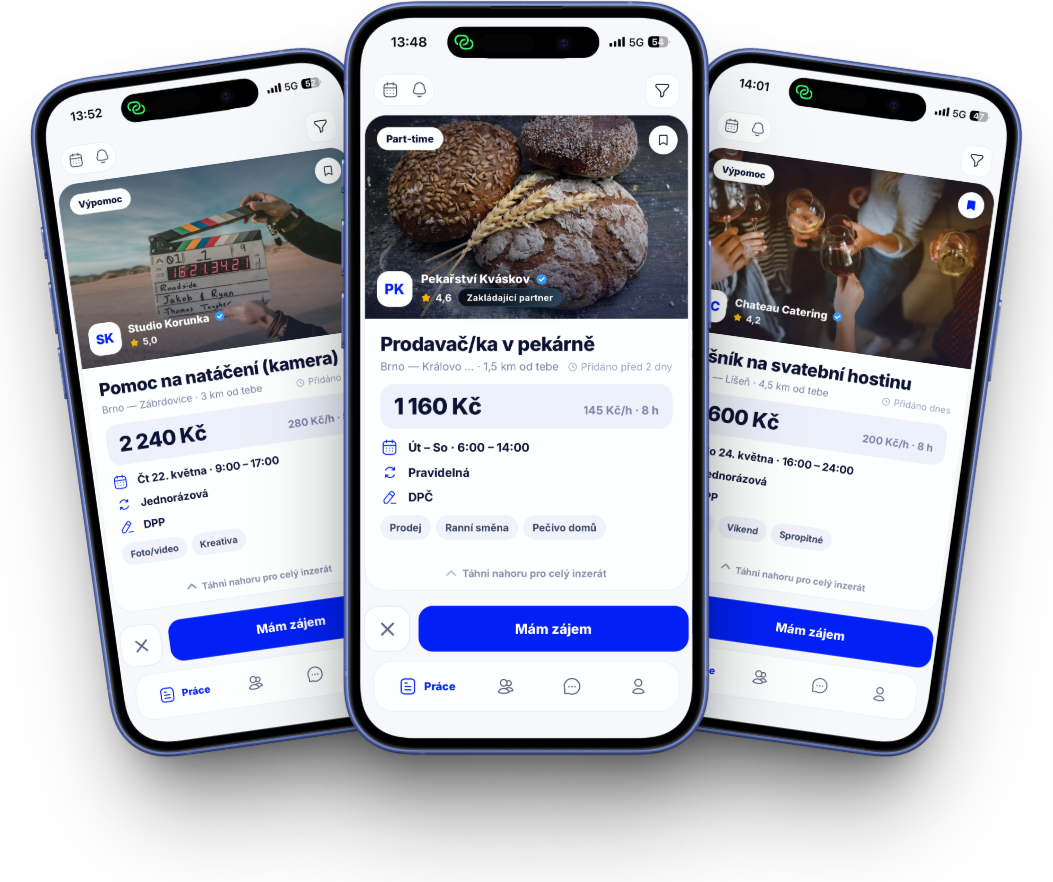
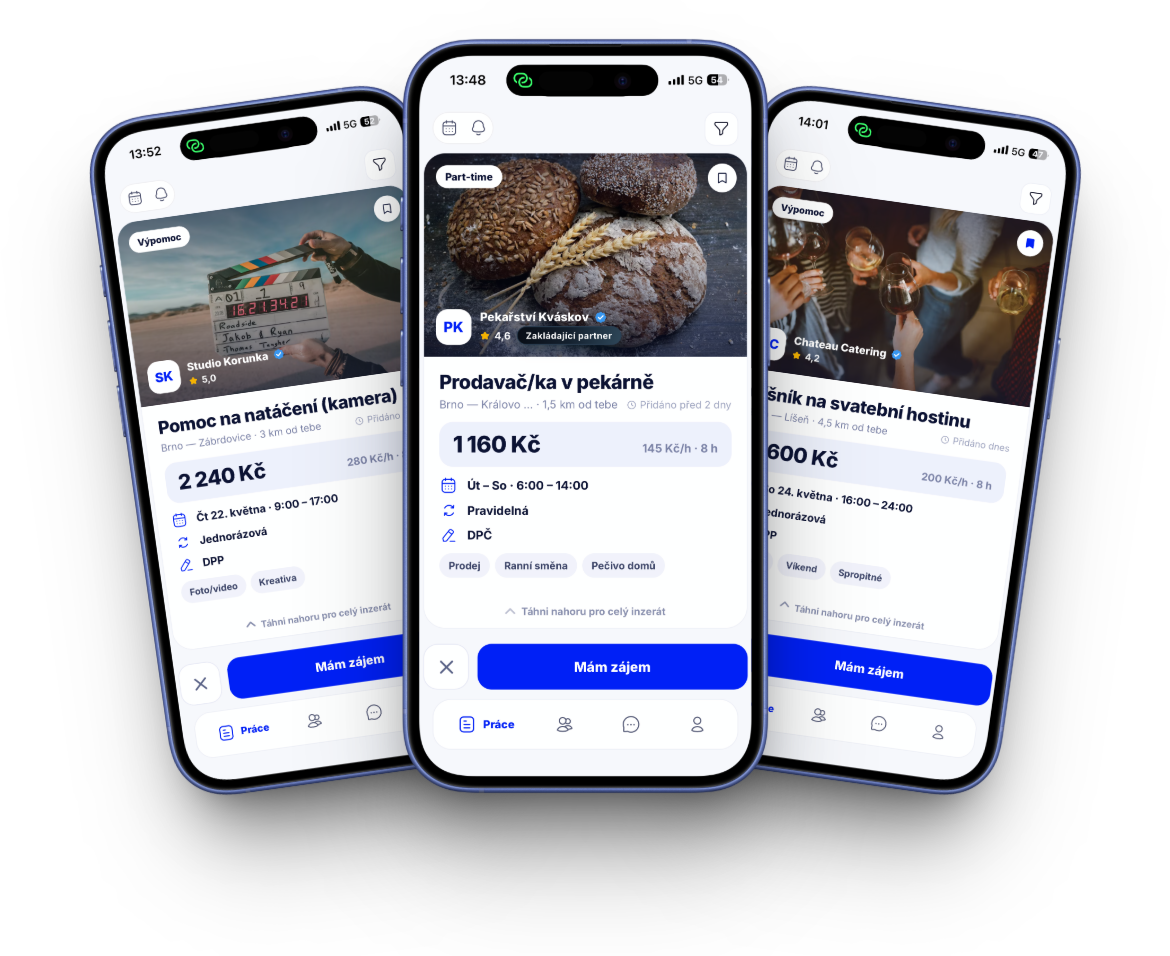
Fix: šedý obdélník u tří telefonů byl uříznutý stín, ne CSS
Předchozí commit odebral drop-shadow, ale skutečná příčina byla v ořezu obrázku.
Ořezával jsem podle bboxu při alfa > 8, jenže stín mockupu v tom místě ještě
nedoběhl do nuly — na spodní hraně měl alfu 8–11, vlevo 2–4. Ořez tam tedy udělal
tvrdý schod z ~10 na 0, což je na světlém pozadí ~4% skok jasu přes celou šířku,
a to se čte jako obdélník kolem obrázku.

Nový ořez bere celý rozsah nenulové alfy (1170x956 místo 1053x882). Spodek je
uříznutý už ve zdrojovém souboru na hraně plátna, takže je navíc přidané změkčení
okrajů (44px rampa) — stín teď nikde nekončí skokem.

diff --git a/hledam-si-praci.html b/hledam-si-praci.html
@@ -359,7 +359,7 @@
       <!-- Tři telefony s appkou -->
       <div class="mkj-visual" aria-hidden="true">
         <div class="mkj-stage">
-          <img class="mkj-phones" src="/hsp-hero-mobily.png" alt="" width="1053" height="882" fetchpriority="high" decoding="async" />
+          <img class="mkj-phones" src="/hsp-hero-mobily.png?v=2" alt="" width="1170" height="956" fetchpriority="high" decoding="async" />
         </div>
       </div>
     </section>
